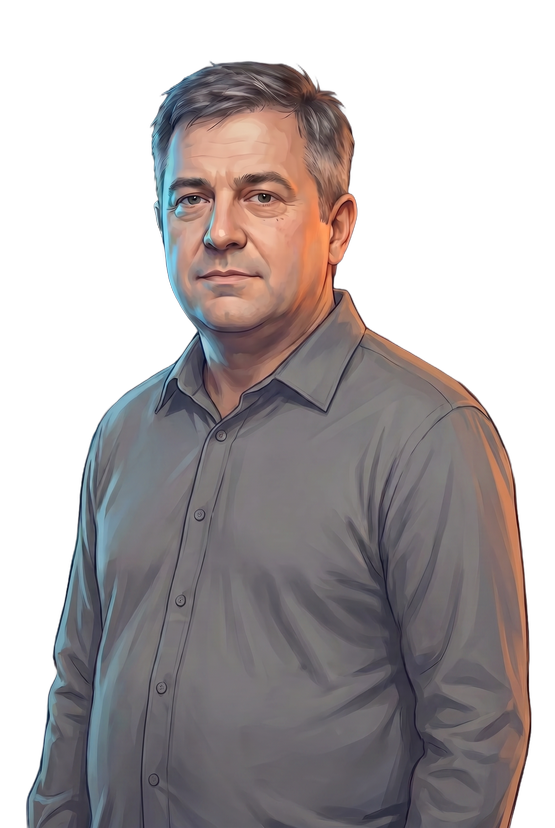
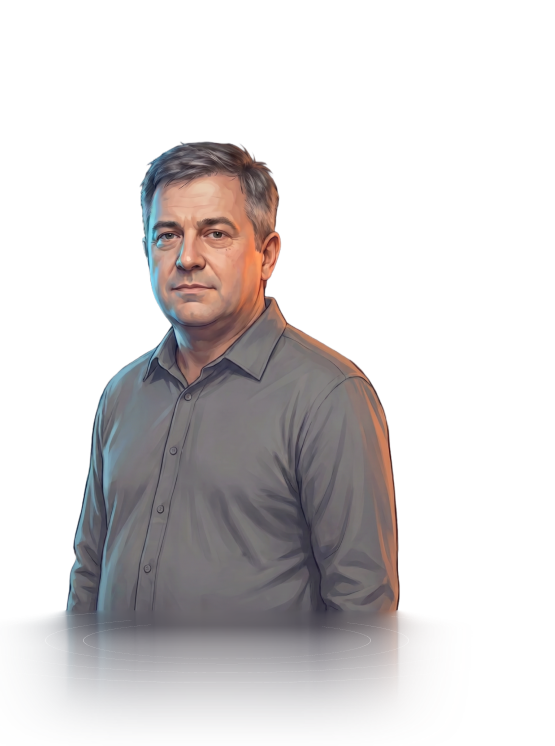
Ingreso 3: paciente serio con piso (encuadre 555x746, tamano original) + cache-busting imagen paciente

diff --git a/resources/views/curso/etapa.blade.php b/resources/views/curso/etapa.blade.php
@@ -1241,9 +1241,11 @@
                         // Imagen del paciente editable desde el panel (por ingreso). Si no hay override, se mantiene la actual.
                         $pImgOv = \App\Support\Cms::raw('curso.cont.'.$ingreso.'.presentacion.img_paciente');
                         if ($pImgOv && file_exists(public_path($pImgOv))) $pImg = $pImgOv;
+                        // Cache-busting por fecha del archivo: al cambiar la imagen (mismo nombre), el navegador la vuelve a pedir.
+                        $pImgSrc = asset($pImg) . (file_exists(public_path($pImg)) ? '?v=' . filemtime(public_path($pImg)) : '');
                     @endphp
-                    <img class="etapa-juan-d" src="{{ asset($pImg) }}" onerror="this.onerror=null;this.src='{{ asset($curso['paciente']['imagen']) }}'" alt="{{ $curso['paciente']['nombre'] }}">
-                    <img class="etapa-juan-m" src="{{ asset($pImg) }}" onerror="this.onerror=null;this.src='{{ asset('images/paciente.png') }}'" alt="{{ $curso['paciente']['nombre'] }}">
+                    <img class="etapa-juan-d" src="{{ $pImgSrc }}" onerror="this.onerror=null;this.src='{{ asset($curso['paciente']['imagen']) }}'" alt="{{ $curso['paciente']['nombre'] }}">
+                    <img class="etapa-juan-m" src="{{ $pImgSrc }}" onerror="this.onerror=null;this.src='{{ asset('images/paciente.png') }}'" alt="{{ $curso['paciente']['nombre'] }}">
                 </div>
                 @endif
 
